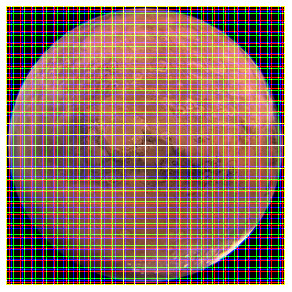
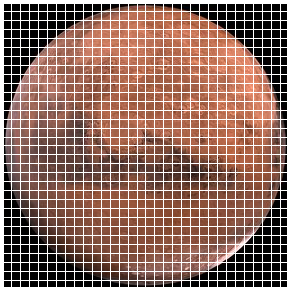
Se calculo la LCA

diff --git a/modules/analysisAberration.py b/modules/analysisAberration.py
@@ -1,0 +1,47 @@
+import cv2
+import pandas as pd
+import numpy as np
+
+def LCA_num():
+
+    images = pd.read_json("data\images.json")
+
+
+    for j,i in enumerate(images):
+        if i=='nuevaImagenAberradaInterpolada':
+            img = cv2.imread(images[i]['url'])
+            img = cv2.cvtColor(img, cv2.COLOR_BGR2RGB) # se corrige para poder usar matplotlib
+            Ra, Ga, Ba =cv2.split(img)    
+        elif i=='nuevaImagenSinAberracionInterpolada':  
+            img = cv2.imread(images[i]['url'])
+            img = cv2.cvtColor(img, cv2.COLOR_BGR2RGB) # se corrige para poder usar matplotlib
+            R, G, B =cv2.split(img)    
+    l, l1=np.shape(R)
+    for j in range(l):
+            u=int((l/2)-1)
+
+            # Abb: NDArray[float64]=np.zeros(l)
+            Yar =Ra[u][j]
+            Yab = Ba[u][j]
+            Yr =R[u][j]
+            Yb =B[u][j]
+
+            if Yar != 127:
+                yr=j
+
+            if Yab != 127:
+                yb =j    
+
+            if Yr !=127:
+                yr2=j
+
+            if Yb != 127:
+                yb2 = j     
+                
+    LCA= yr-  yb
+    LCA2= yr2 - yb2
+
+    print('Aberracion cromatica lateral de la imagen aberrada:', LCA, '\n Aberracion cromatica lateral de la imagen corregida',  LCA2)
+    return
+
+

diff --git a/index.py b/index.py
@@ -1,4 +1,4 @@
-from modules import telescope, interpolation, analysisResults
+from modules import telescope, interpolation, analysisResults, analysisAberration
 import pandas as pd
 
 d = True
@@ -74,6 +74,7 @@ while d == True:
         telescope.telescope_system('1', l, url)
         imgName = ['nuevaImagen', 'nuevaImagenAberracionCorregida', 'nuevaImagenAberradaInterpolada', 'nuevaImagenSinAberracionInterpolada']
         interpolation.interpolation_system(imgName, 2)
+        analysisAberration.LCA_num()
         analysisResults.figures()
 
     else:

diff --git a/modules/tracer.py b/modules/tracer.py
@@ -190,6 +190,9 @@ def ray_tracing(width, height, rayo, so, n1, obj, res, pixels, width_output, hei
 
             Mt = y_imagen/y_objeto
 
+            if Mt[0] != Mt[1] or Mt[0] != Mt[2] or Mt[1] != Mt[2]
+                w=0
+
             #Conversion from image coordinates to lens coordinates
             if(m == '0'):
                 x_prime = x*(126/1.6)*Mt
